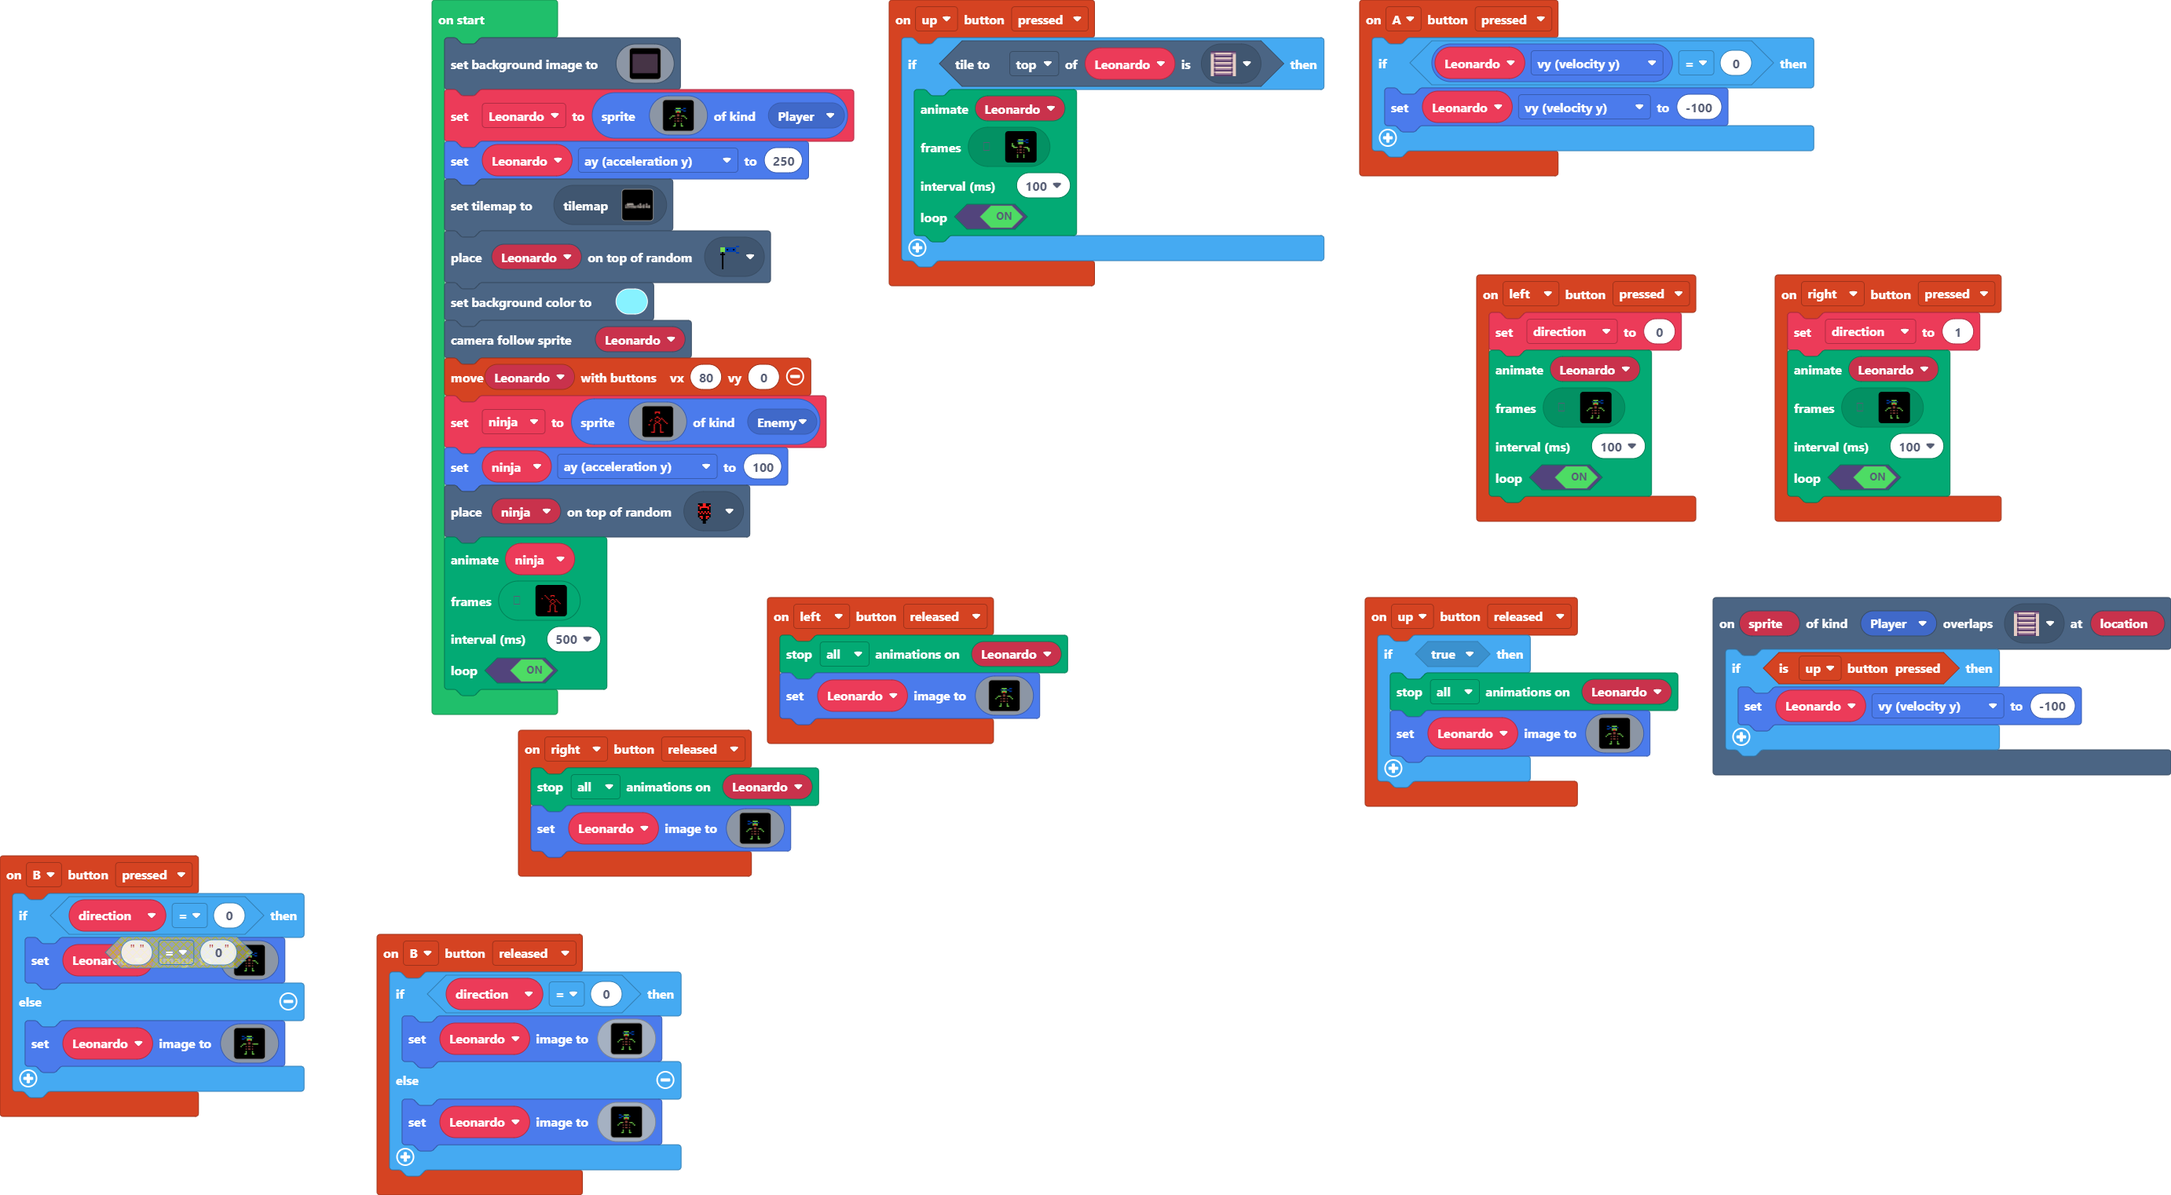
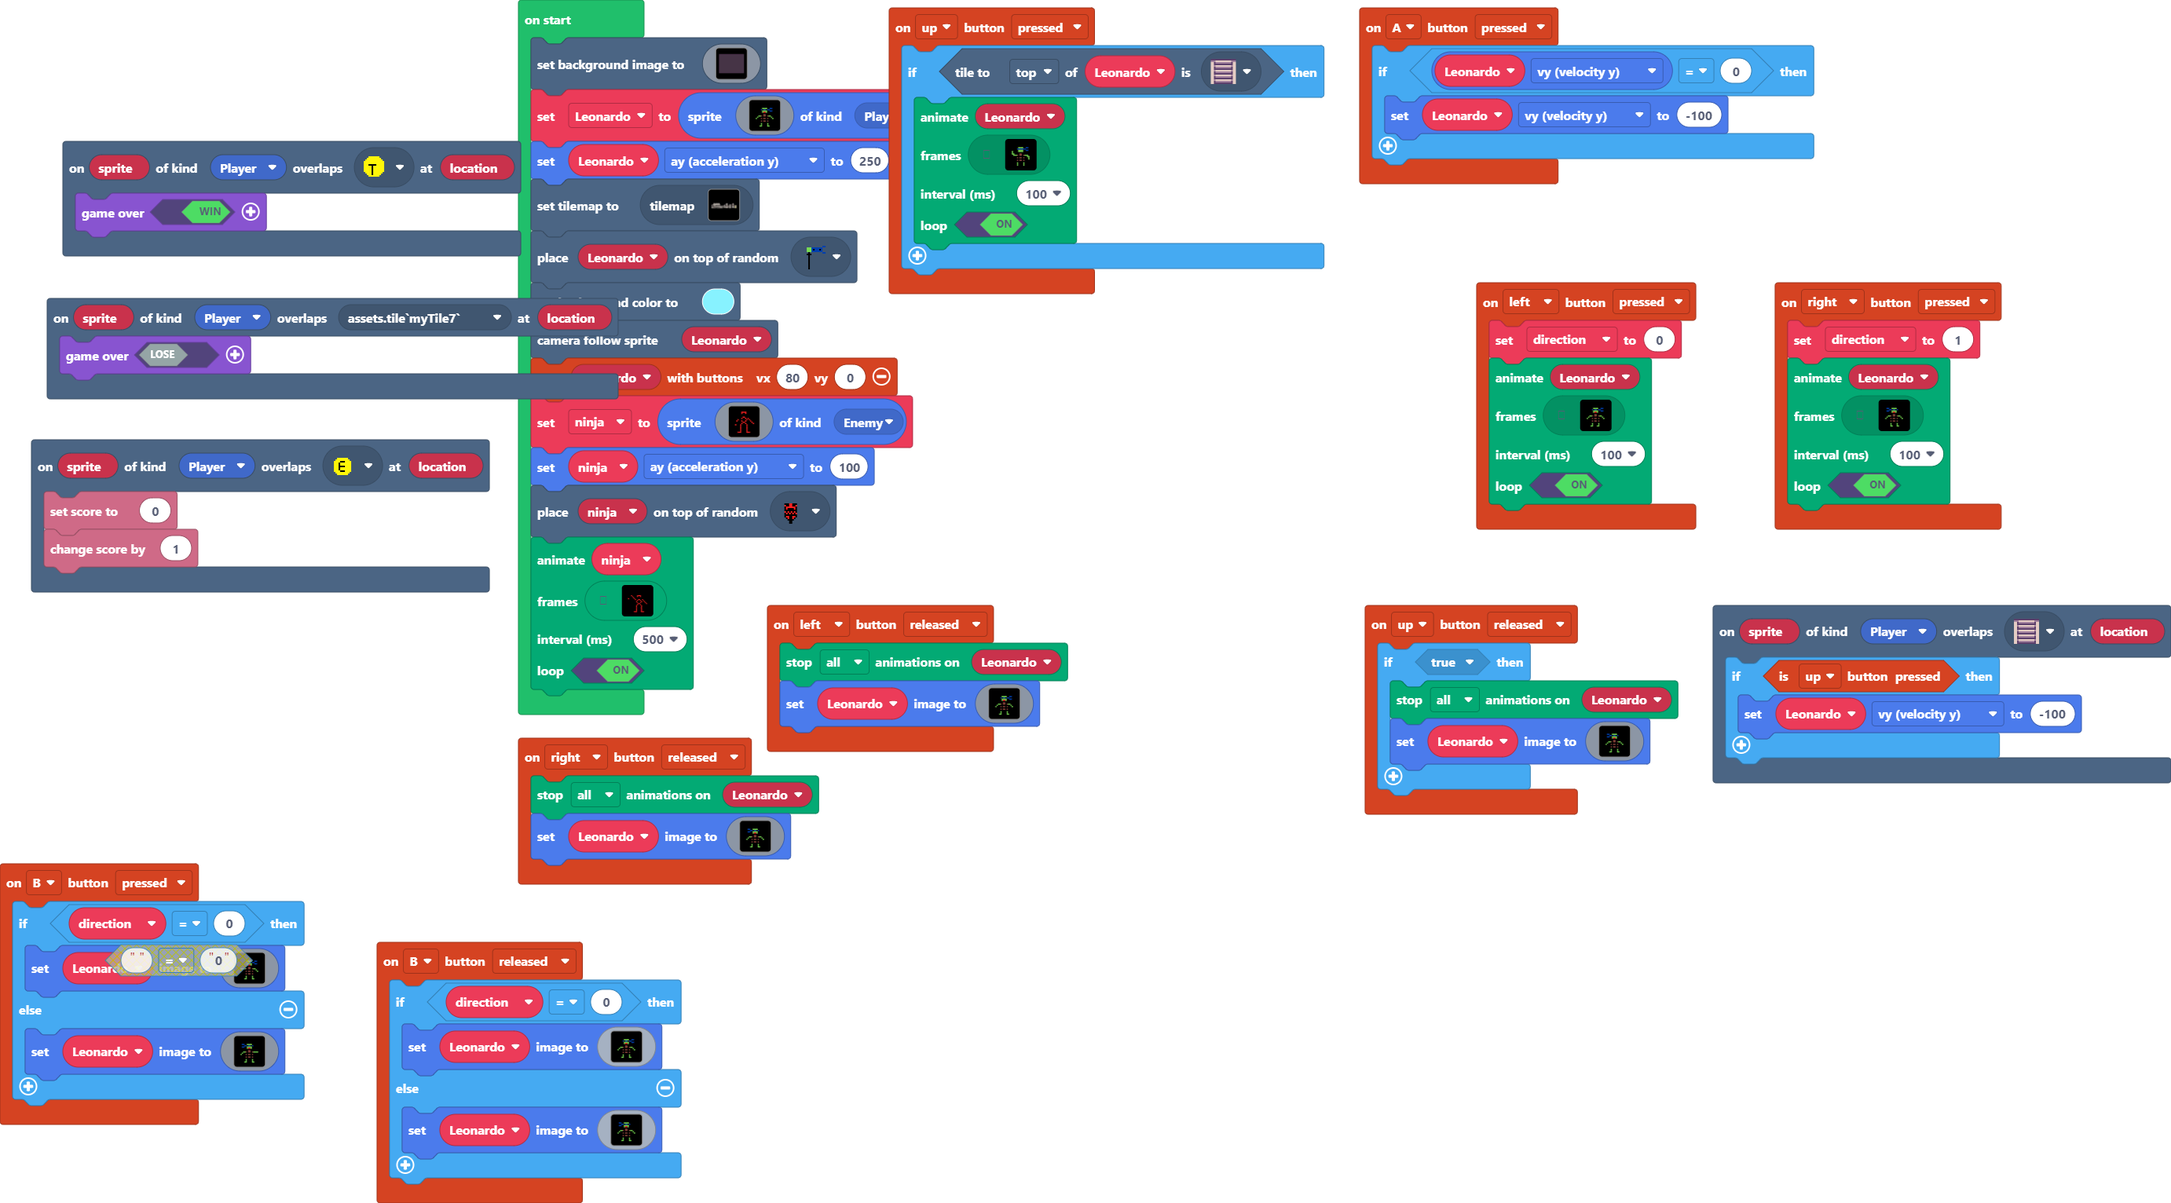
Update main.blocks, main.ts, tilemap.g.jres, tilemap.g.ts

diff --git a/tilemap.g.ts b/tilemap.g.ts
@@ -17,7 +17,11 @@ namespace myTiles {
     //% fixedInstance jres blockIdentity=images._tile
     export const tile7 = image.ofBuffer(hex``);
     //% fixedInstance jres blockIdentity=images._tile
+    export const tile10 = image.ofBuffer(hex``);
+    //% fixedInstance jres blockIdentity=images._tile
     export const tile8 = image.ofBuffer(hex``);
+    //% fixedInstance jres blockIdentity=images._tile
+    export const tile11 = image.ofBuffer(hex``);
 
     helpers._registerFactory("tilemap", function(name: string) {
         switch(helpers.stringTrim(name)) {
@@ -116,34 +120,6 @@ namespace myTiles {
 . . . . . . . . . . . . . . . . 
 . . . . . . . . . . . . . . . . 
 `, [myTiles.transparency16], TileScale.Sixteen);
-            case "level1":
-            case "level1":return tiles.createTilemap(hex`6400190000000000000000000000000000000000000000000000000000000000000000000000000000000000000000000000000000000000000000000000000000000000000000000000000000000000000000000000000000000000000000000000000000000000000000000000000000000000000000000000000000000000000000000000000000000000000000000000000000000000000000000000000000000000000000000000000000000000000000000000000000000000000000000000000000000000000000000000000000000000000000000000000000000000000000000000000000000000000000000000000000000000000000000000000000000000000000000000000000000000000000000000000000000000000000000000000000000000000000000000000000000000000000000000000000000000000000000000000000000000000000000000000000000000000000000000000000000000000000000000000000000000000000000000000000000000000000000000000000000000000000000000000000000000000000000000000000000000000000000000000000000000000000000000000000000000000000000000000000000000000000000000000000000000000000000000000000000000000000000000000000000000000000000000000000000000000000000000000000000000000501010000000000010100000000010100000000010100000000000000000000000000000000000000000000000000000000000001000000000000000000000000000000000000000000000005010000000000000000000000000000000000000000000005010101000000010101010000010101010000010101010000000000000000000000000000000000000000000000000000000001010100000000000000000000000000000000000000000000050100000000000000000000000000000000000000000000050101010000000101010100000101010100000101010100000000000000000000000000000000000000000000000000000001000100010000000000000000000000000000000000000000000501000000000000000000000000000000000000000000000501010100000001010101000001010101000001010101000000000000000000000000000000000000000000000000000501010101010101000000000000000000000000000000000000050101010101000000000000000000000000000000000000000101010101010101010101010101010101010101010101010100000000000000000000000000000000000000000000000005000100010001000000000000000000040000000000000000000501000100010000000000000000000000000000000000000101010101010101010101010101010101010101010101010101010000000000000000000000000000000000000000000000050001010101010000000000000101010105010101000000000005010001000100000000000000000000000000000000000101010101010101010101010101010101010101010101010101010101000000000000000000000000000000000300000000000500010001000100000000000001000000050000010000000000050101010101000000000000000000000001050101010101010101010101010101010101010101010101010101010101010101010000000000000000000000000000000501010101000005000101010101000000000000000000000501010100000000000101000100010100000000000000000000010500000000000001000001000001010101010000010101010000000000000000000000000000000000000000000000000005010000010000000001000100010000000000000000000005000001000000000006000000000006000000000101070101000105000000000000010000010000010000000100000000000000000000000000000000000000000000000000000000000000050100000100000000010101010100000000000101010101010101010000000000060000000000060000000100000000000101050000000000000101010101010100000000000000000000050101010101010101000000000000000000000000000000000501000001000000000101010101000000000100010000010100000100000000050101010101010100000001010100010101010500000000000001000001000001000000000000000000000500000100000100010501010101010101010101010101010101010101010001000006000000060005010100000101010101010101000000000501000001000001000000010101000101010101010100000000010000010000010105010101010101010101000001000001000105010000010000010000010000000100000100000100010000060000000600050100000001000001010000010000000005010101010101010000000101010001010101010101010101050101010101010101050101000001010101010101010101010101050100000100000100000100000001010101010101000101010101010101010101000000010101010101010100000000050100000100000100000001010100010101010000000000000500000006000000000501010000010100000100000100000100010501010101010101010101000000010000010000010001000001000100010000010000000100000101000001000000000501010101010101000000010101000101010100000000000000000000060008000005010101010101000001000001000001000105010000010000010000010000000101010101010100010101010101010101010100000001010101010101010000000001010000010000010100000101010001010101020001010101010101010101010101010100000000000101010101010101010101050100000100000100000100000001000001000001000101010100010001010101000000010000010100000100000000010101010101010101000001010100010101010101010000000001000000000000000000000000000000000000000000000000000501010101010101010101000000010000010000010001000001010101010000010000000101010101010101000000000100000001000000010000010101000101010101010100000000010000000000000000000001010000000000000000000000000005010000010000010000010000000101010101010100010101010001000101010100000001000001010000010000000001010101010101010100000101010001010101010101010101010101010101010101010101000001010101010101010101010101010101010101010101010100000001000001000001000100000101010101000001000000010101010101010100000000010000000100000001000001010100010101`, img`
-....................................................................................................
-....................................................................................................
-....................................................................................................
-....................................................................................................
-....................................................................................................
-..........22.....22....22....22..............................2........................2.............
-..........222...2222..2222..2222............................222.......................2.............
-..........222...2222..2222..2222...........................2.2.2......................2.............
-..........222...2222..2222..2222..........................2222222...................22222...........
-........2222222222222222222222222..........................2.2.2....................2.2.2...........
-.......222222222222222222222222222.........................22222......2222.222......2.2.2...........
-......22222222222222222222222222222........................2.2.2......2......2......22222...........
-2.222222222222222222222222222222222................2222....22222...........222.....22.2.22..........
-2.......2..2..22222..2222..........................2..2....2.2.2.............2................22.22.
-2.......2..2..2...2................................2..2....22222.....222222222...............2.....2
-2.......2222222...........22222222.................2..2....22222....2.2..22..2.....2222222...222.222
-2.......2..2..2.............2..2.2.22222222222222222222.2.........22..22222222.....2..2..2...222.222
-2222....2..2..22.222222222..2..2.2.2..2..2..2...2..2..2.2.........2...2..22..2.....2222222...222.222
-2222222.22222222.22..2222222222222.2..2..2..2...2222222.22222222222...22222222.....2..2..2...222.222
-2................22..22..2..2..2.2.2222222222...2..2..2.2..2.2.2..2...2..22..2.....2222222...222.222
-2................222222..2..2..2.2.2..2..2..2...2222222.22222222222...22222222....22..2..22..222.222
-2..222222222222222.....22222222222.2..2..2..2...2..2..2.2222.2.2222...2..22..2....222222222..222.222
-2222....2..........................2222222222...2..2..2.2..22222..2...22222222....2...2...2..222.222
-2222....2..........22..............2..2..2..2...2222222.2222.2.2222...2..22..2....222222222..222.222
-2222222222222222222..222222222222222222222222...2..2..2.2..22222..2...22222222....2...2...2..222.222
-`, [myTiles.transparency16,sprites.builtin.brick,myTiles.tile1,myTiles.tile2,myTiles.tile3,sprites.dungeon.stairSouth,sprites.dungeon.stairLadder,myTiles.tile4,myTiles.tile5,myTiles.tile8], TileScale.Sixteen);
             case "level7":
             case "level7":return tiles.createTilemap(hex`1000100000000000000000000000000000000000000000000000000000000000000000000000000000000000000000000000000000000000000000000000000000000000000000000000000000000000000000000000000000000000000000000000000000000000000000000000000000000000000000000000000000000000000000000000000000000000000000000000000000000000000000000000000000000000000000000000000000000000000000000000000000000000000000000000000000000000000000000000000000000000000000000000000000000000000000000000000000000000000000000000000000000000000000000000000000000000`, img`
 . . . . . . . . . . . . . . . . 
@@ -296,6 +272,110 @@ namespace myTiles {
 . . . . . . . . . . . . . . . . 
 . . . . . . . . . . . . . . . . 
 `, [myTiles.transparency16], TileScale.Sixteen);
+            case "level15":
+            case "level15":return tiles.createTilemap(hex`1000100000000000000000000000000000000000000000000000000000000000000000000000000000000000000000000000000000000000000000000000000000000000000000000000000000000000000000000000000000000000000000000000000000000000000000000000000000000000000000000000000000000000000000000000000000000000000000000000000000000000000000000000000000000000000000000000000000000000000000000000000000000000000000000000000000000000000000000000000000000000000000000000000000000000000000000000000000000000000000000000000000000000000000000000000000000000`, img`
+. . . . . . . . . . . . . . . . 
+. . . . . . . . . . . . . . . . 
+. . . . . . . . . . . . . . . . 
+. . . . . . . . . . . . . . . . 
+. . . . . . . . . . . . . . . . 
+. . . . . . . . . . . . . . . . 
+. . . . . . . . . . . . . . . . 
+. . . . . . . . . . . . . . . . 
+. . . . . . . . . . . . . . . . 
+. . . . . . . . . . . . . . . . 
+. . . . . . . . . . . . . . . . 
+. . . . . . . . . . . . . . . . 
+. . . . . . . . . . . . . . . . 
+. . . . . . . . . . . . . . . . 
+. . . . . . . . . . . . . . . . 
+. . . . . . . . . . . . . . . . 
+`, [myTiles.transparency16], TileScale.Sixteen);
+            case "level16":
+            case "level16":return tiles.createTilemap(hex`1000100000000000000000000000000000000000000000000000000000000000000000000000000000000000000000000000000000000000000000000000000000000000000000000000000000000000000000000000000000000000000000000000000000000000000000000000000000000000000000000000000000000000000000000000000000000000000000000000000000000000000000000000000000000000000000000000000000000000000000000000000000000000000000000000000000000000000000000000000000000000000000000000000000000000000000000000000000000000000000000000000000000000000000000000000000000000`, img`
+. . . . . . . . . . . . . . . . 
+. . . . . . . . . . . . . . . . 
+. . . . . . . . . . . . . . . . 
+. . . . . . . . . . . . . . . . 
+. . . . . . . . . . . . . . . . 
+. . . . . . . . . . . . . . . . 
+. . . . . . . . . . . . . . . . 
+. . . . . . . . . . . . . . . . 
+. . . . . . . . . . . . . . . . 
+. . . . . . . . . . . . . . . . 
+. . . . . . . . . . . . . . . . 
+. . . . . . . . . . . . . . . . 
+. . . . . . . . . . . . . . . . 
+. . . . . . . . . . . . . . . . 
+. . . . . . . . . . . . . . . . 
+. . . . . . . . . . . . . . . . 
+`, [myTiles.transparency16], TileScale.Sixteen);
+            case "level17":
+            case "level17":return tiles.createTilemap(hex`1000100000000000000000000000000000000000000000000000000000000000000000000000000000000000000000000000000000000000000000000000000000000000000000000000000000000000000000000000000000000000000000000000000000000000000000000000000000000000000000000000000000000000000000000000000000000000000000000000000000000000000000000000000000000000000000000000000000000000000000000000000000000000000000000000000000000000000000000000000000000000000000000000000000000000000000000000000000000000000000000000000000000000000000000000000000000000`, img`
+. . . . . . . . . . . . . . . . 
+. . . . . . . . . . . . . . . . 
+. . . . . . . . . . . . . . . . 
+. . . . . . . . . . . . . . . . 
+. . . . . . . . . . . . . . . . 
+. . . . . . . . . . . . . . . . 
+. . . . . . . . . . . . . . . . 
+. . . . . . . . . . . . . . . . 
+. . . . . . . . . . . . . . . . 
+. . . . . . . . . . . . . . . . 
+. . . . . . . . . . . . . . . . 
+. . . . . . . . . . . . . . . . 
+. . . . . . . . . . . . . . . . 
+. . . . . . . . . . . . . . . . 
+. . . . . . . . . . . . . . . . 
+. . . . . . . . . . . . . . . . 
+`, [myTiles.transparency16], TileScale.Sixteen);
+            case "level18":
+            case "level18":return tiles.createTilemap(hex`1000100000000000000000000000000000000000000000000000000000000000000000000000000000000000000000000000000000000000000000000000000000000000000000000000000000000000000000000000000000000000000000000000000000000000000000000000000000000000000000000000000000000000000000000000000000000000000000000000000000000000000000000000000000000000000000000000000000000000000000000000000000000000000000000000000000000000000000000000000000000000000000000000000000000000000000000000000000000000000000000000000000000000000000000000000000000000`, img`
+. . . . . . . . . . . . . . . . 
+. . . . . . . . . . . . . . . . 
+. . . . . . . . . . . . . . . . 
+. . . . . . . . . . . . . . . . 
+. . . . . . . . . . . . . . . . 
+. . . . . . . . . . . . . . . . 
+. . . . . . . . . . . . . . . . 
+. . . . . . . . . . . . . . . . 
+. . . . . . . . . . . . . . . . 
+. . . . . . . . . . . . . . . . 
+. . . . . . . . . . . . . . . . 
+. . . . . . . . . . . . . . . . 
+. . . . . . . . . . . . . . . . 
+. . . . . . . . . . . . . . . . 
+. . . . . . . . . . . . . . . . 
+. . . . . . . . . . . . . . . . 
+`, [myTiles.transparency16], TileScale.Sixteen);
+            case "level1":
[1 lines of base64/hex data omitted]
+....................................................................................................
+....................................................................................................
+....................................................................................................
+....................................................................................................
+....................................................................................................
+..........22.....22....22....22..............................2........................2.............
+..........222...2222..2222..2222............................222.......................2.............
+..........222...2222..2222..2222...........................2.2.2......................2.............
+..........222...2222..2222..2222..........................2222222...................22222...........
+........2222222222222222222222222..........................2.2.2....................2.2.2...........
+.......222222222222222222222222222.........................22222......2222.222......2.2.2...........
+......22222222222222222222222222222........................2.2.2......2......2......22222...........
+2.222222222222222222222222222222222................2222....22222...........222.....22.2.22..........
+2.......2..2..22222..2222..........................2..2....2.2.2.............2................22.22.
+2.......2..2..2...2................................2..2....22222.....222222222...............2.....2
+2.......2222222...........22222222.................2..2....22222....2.2..22..2.....2222222...222.222
+2.......2..2..2.............2..2.2.22222222222222222222.2.........22..22222222.....2..2..2...222.222
+2222....2..2..22.222222222..2..2.2.2..2..2..2...2..2..2.2.........2...2..22..2.....2222222...222.222
+2222222.22222222.22..2222222222222.2..2..2..2...2222222.22222222222...22222222.....2..2..2...222.222
+2................22..22..2..2..2.2.2222222222...2..2..2.2..2.2.2..2...2..22..2.....2222222...222.222
+2................222222..2..2..2.2.2..2..2..2...2222222.22222222222...22222222....22..2..22..222.222
+2..222222222222222.....22222222222.2..2..2..2...2..2..2.2222.2.2222...2..22..2....222222222..222.222
+2222....2..........................2222222222...2..2..2.2..22222..2...22222222....2...2...2..222.222
+2222....2..........22..............2..2..2..2...2222222.2222.2.2222...2..22..2....222222222..222.222
+2222222222222222222..222222222222222222222222...2..2..2.2..22222..2...22222222....2...2...2..222.222
+`, [myTiles.transparency16,sprites.builtin.brick,myTiles.tile1,myTiles.tile2,myTiles.tile3,sprites.dungeon.stairSouth,sprites.dungeon.stairLadder,myTiles.tile4,myTiles.tile5,myTiles.tile10,myTiles.tile8,myTiles.tile11], TileScale.Sixteen);
         }
         return null;
     })
@@ -317,8 +397,12 @@ namespace myTiles {
             case "tile6":return tile6;
             case "myTile5":
             case "tile7":return tile7;
+            case "myTile8":
+            case "tile10":return tile10;
             case "myTile6":
             case "tile8":return tile8;
+            case "myTile9":
+            case "tile11":return tile11;
         }
         return null;
     })

diff --git a/main.ts b/main.ts
@@ -71,6 +71,9 @@ controller.up.onEvent(ControllerButtonEvent.Pressed, function () {
         )
     }
 })
+scene.onOverlapTile(SpriteKind.Player, assets.tile`myTile6`, function (sprite, location) {
+    game.over(true)
+})
 controller.B.onEvent(ControllerButtonEvent.Pressed, function () {
     if (direction == 0) {
         Leonardo.setImage(img`
@@ -124,6 +127,9 @@ controller.A.onEvent(ControllerButtonEvent.Pressed, function () {
     if (Leonardo.vy == 0) {
         Leonardo.vy = -100
     }
+})
+scene.onOverlapTile(SpriteKind.Player, assets.tile`myTile7`, function (sprite, location) {
+    game.over(false)
 })
 controller.left.onEvent(ControllerButtonEvent.Pressed, function () {
     direction = 0
@@ -303,6 +309,10 @@ controller.up.onEvent(ControllerButtonEvent.Released, function () {
             ...ffff..ffff...
             `)
     }
+})
+scene.onOverlapTile(SpriteKind.Player, assets.tile`myTile8`, function (sprite, location) {
+    info.setScore(0)
+    info.changeScoreBy(1)
 })
 controller.B.onEvent(ControllerButtonEvent.Released, function () {
     if (direction == 0) {
